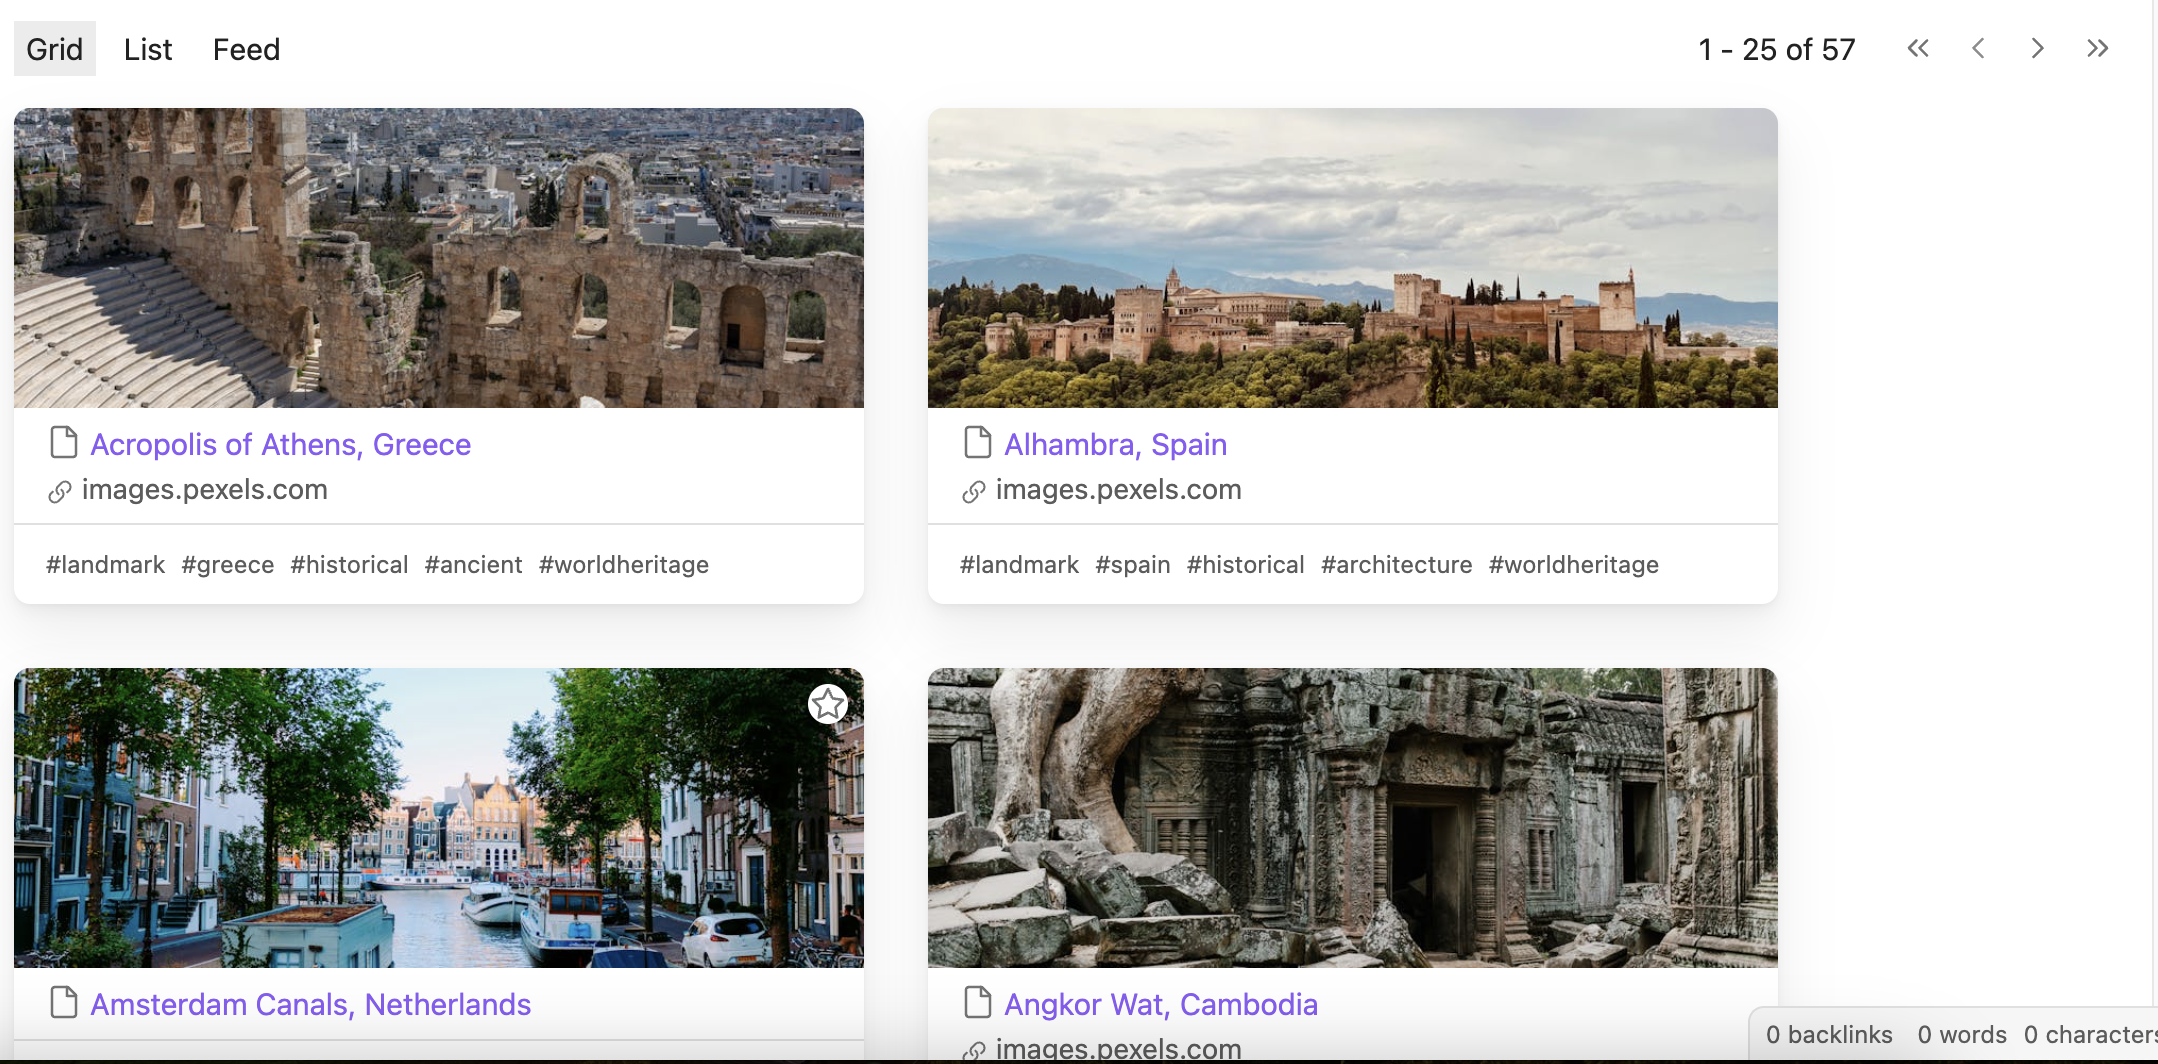
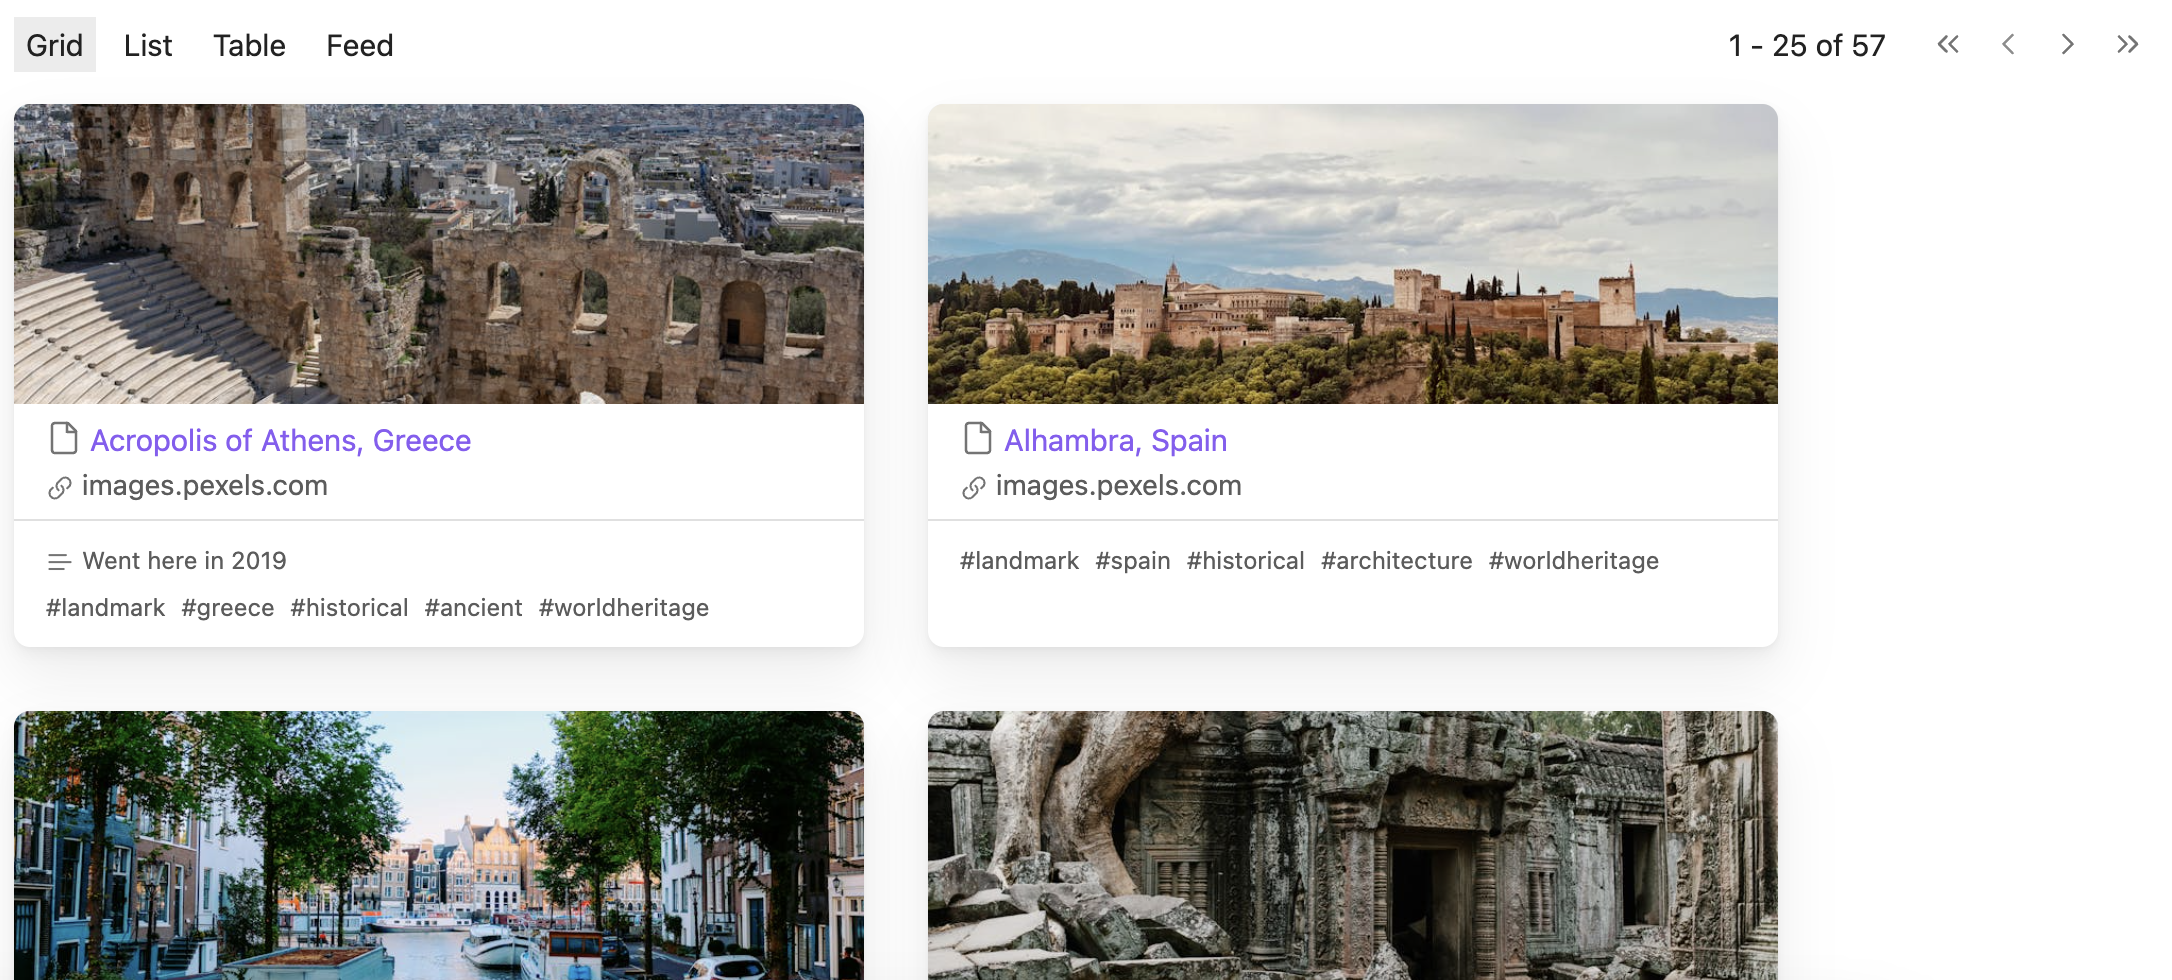
docs: update view images

diff --git a/README.md b/README.md
@@ -38,6 +38,10 @@ Vault Explorer is a work in progress. Please check the GitHub repository and doc
 
 ![](/readme/list-view.png)
 
+### Table view
+
+![](/readme/table-view.png)
+
 ### Feed view
 
 ![](/readme/feed-view.png)
